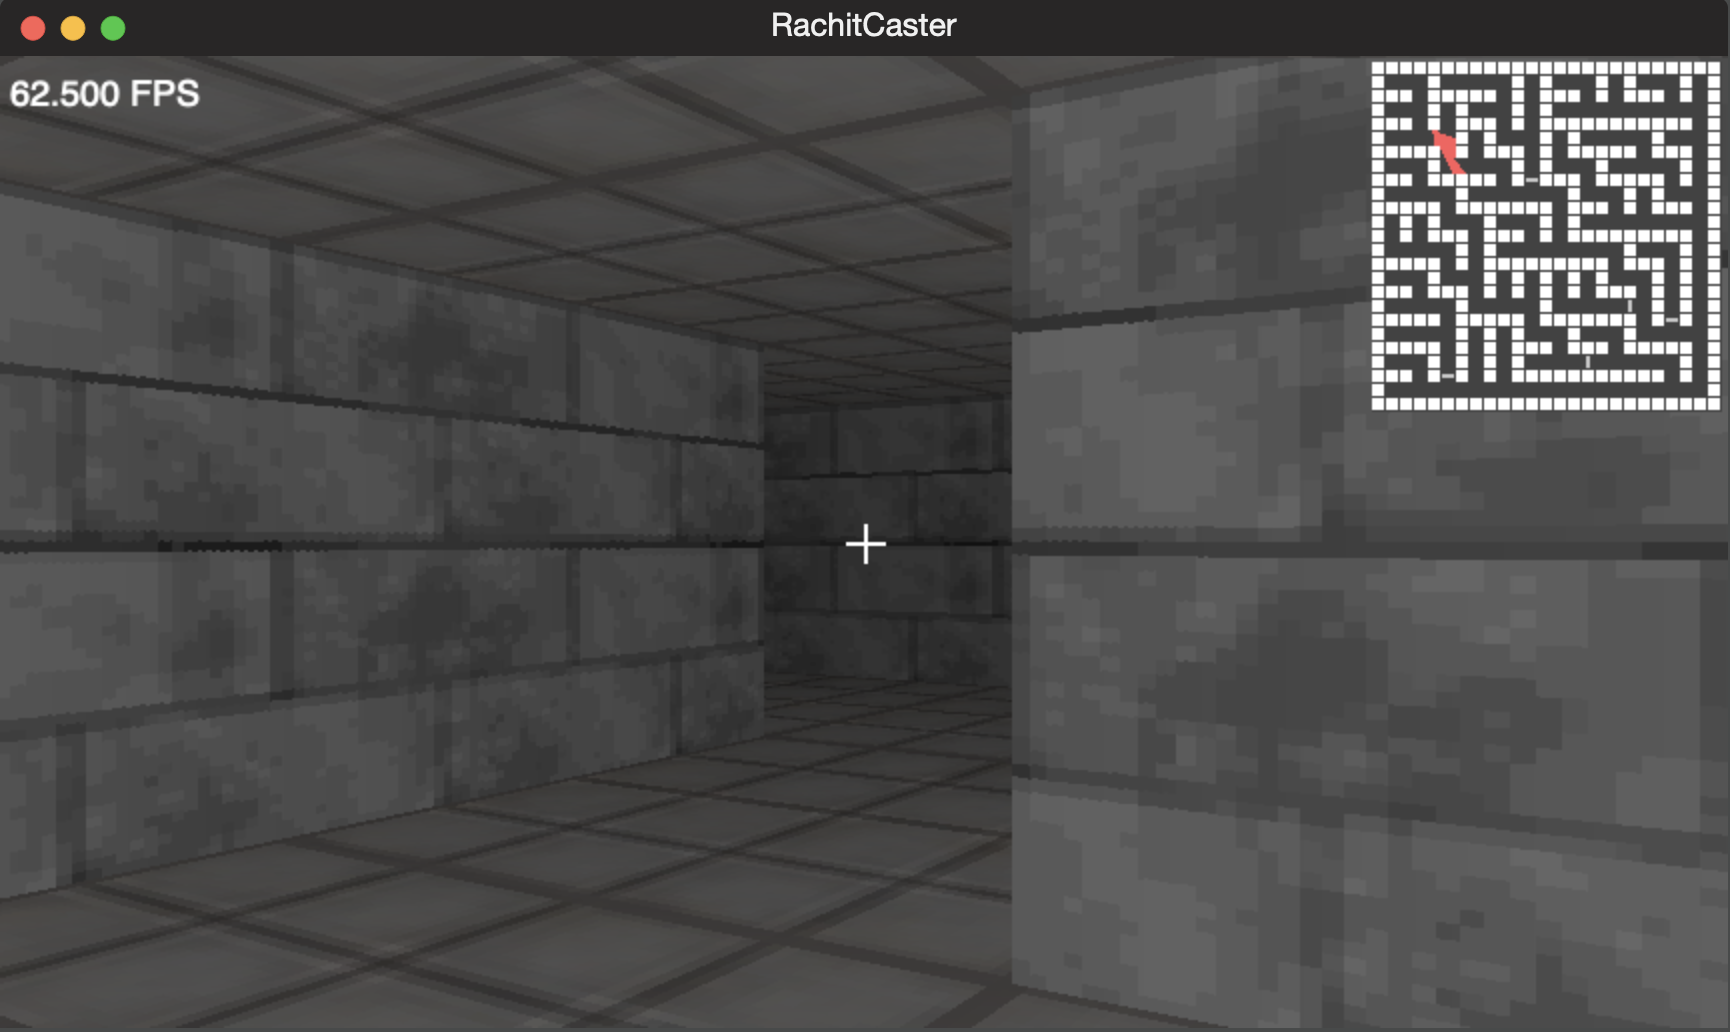
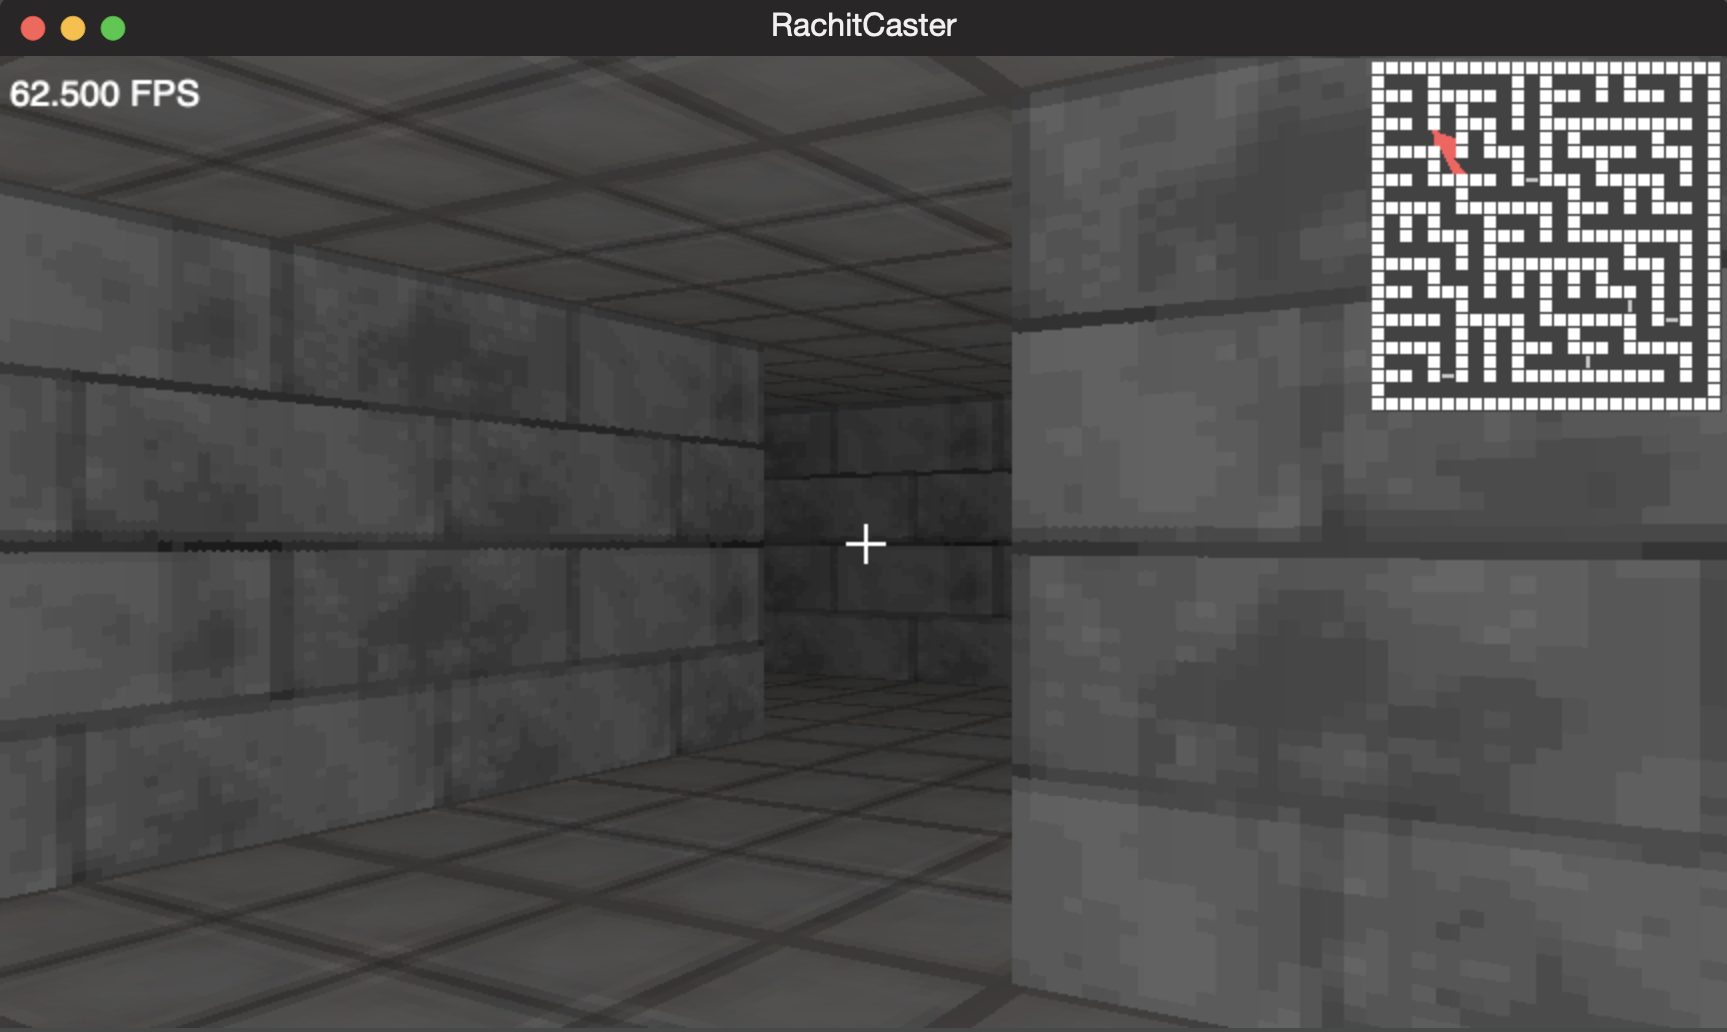
Render full frame

Changed region(s): [[0.7979, 0.062, 1.0, 0.4031], [0.4296, 0.0, 0.5524, 0.031]]

diff --git a/raycaster.js b/raycaster.js
@@ -1,14 +1,10 @@
 import { loadImage, loadImages, drawPixel, drawRectangle, drawVerticalLine, drawLine, eightWayPlot, drawCircle, drawFilledCircle, int, Vector2 } from "./lib.js";
 import { Prompt } from "./src/Prompt.js";
+import { Timer } from "./src/Timer.js";
 
 // Screen dimensions (scale to 70% of screenwidth and enforce 9 / 16 aspect ratio)
 const screenWidth = window.innerWidth * 0.6;
 const screenHeight = screenWidth * 9/16;
-
-const scaleFactor = 1;
-var xOffset = 2; // Used to control which specific columns of pixels are being rendered each frame
-const downscaledWidth = int(screenWidth / scaleFactor);
-const downscaledHeight = int(screenHeight / scaleFactor);
 
 // Dealing with canvas (setting dimensions, creating context)
 canvas.width = screenWidth;
@@ -21,9 +17,7 @@ var screen = ctx.createImageData(screenWidth, screenHeight); // Create an image 
 var instructionPrompt = new Prompt("CLICK TO LOCK MOUSE CURSOR. ARROW KEYS OR WASD TO MOVE.", screenWidth);
 
 // Variables needed for delta time calculation
-var now;
-var lastUpdate;
-var deltaTime;
+var timer = new Timer();
 
 // Structures
 function Sprite(x, y, texture) {
@@ -357,7 +351,7 @@ function movePlayer(moveSpeed) {
     }
 
     if (moved) {
-        walkTime += deltaTime;
+        walkTime += timer.getDeltaTime();
         pitch += (Math.cos(10 * walkTime) / 2 * 4.5);
     }
 }
@@ -365,8 +359,8 @@ function movePlayer(moveSpeed) {
 function rotatePlayer(event) {
     let differenceX = event.movementX / screenWidth;
     let differenceY = event.movementY / screenHeight;
-    let rotationSpeedX = (differenceX * 60) * deltaTime;
-    let rotationSpeedY = -(differenceY * 12000) * deltaTime;
+    let rotationSpeedX = (differenceX * 60) * timer.getDeltaTime();
+    let rotationSpeedY = -(differenceY * 12000) * timer.getDeltaTime();
 
     var newDirection = new Vector2();
     newDirection.x = direction.x * Math.cos(rotationSpeedX) - direction.y * Math.sin(rotationSpeedX);
@@ -384,18 +378,16 @@ function rotatePlayer(event) {
 // Main loop
 function main() {
     // Calculate delta time
-    now = Date.now();
-    deltaTime = (now - lastUpdate) / 1000;
-    lastUpdate = now;
+    timer.calculateDeltaTime();
 
     // Use delta time to calculate a smooth movement speed based on framerate
-    let moveSpeed = MOVE_SPEED * deltaTime;
-    // let rotationSpeed = ROTATION_SPEED * deltaTime;
+    let moveSpeed = MOVE_SPEED * timer.getDeltaTime();
+    // let rotationSpeed = ROTATION_SPEED * timer.getDeltaTime();
     movePlayer(moveSpeed);
     
     let clipPitch = 150;
-    if (downscaledHeight / 2 < clipPitch) 
-        clipPitch = downscaledHeight / 2;
+    if (screenHeight / 2 < clipPitch) 
+        clipPitch = screenHeight / 2;
     if (pitch < -clipPitch)
         pitch = -clipPitch;
     if (pitch > clipPitch)
@@ -435,16 +427,6 @@ function main() {
     }
     */
 
-    // drawRectangle(screen, 0, 0, screenWidth, screenHeight / 2 + pitch * 2, 0, 191, 255);
-    // drawRectangle(screen, 0, screenHeight / 2, screenWidth, screenHeight, 72, 171, 62);
-
-    /*
-    for (let y = 0; y < screenHeight / 2 + pitch * scaleFactor; y++) {
-        let dimFactor = mapValue(y, 0, downscaledHeight, 0.8, 2);
-        drawLine(screen, new Vector2(0, y), new Vector2(screenWidth, y), 45 / dimFactor, 45 / dimFactor, 45 / dimFactor);
-    }
-    */
-
     // Update doors
     for (const door of doors) {
         if (door.trigger) {
@@ -455,7 +437,7 @@ function main() {
                 door.state = 'closing';
 
             if (door.offset > 0 && door.state === 'closing')
-                door.offset -= deltaTime;
+                door.offset -= timer.getDeltaTime();
             if (door.offset <= 0) {
                 door.state = 'closed';
                 door.offset = 0;
@@ -464,9 +446,8 @@ function main() {
     }
     
     let raysOnMap = [];
-    xOffset++;
-    for (let x = (xOffset % 2); x < downscaledWidth; x += 2) {
-        let cameraX = 2 * x / downscaledWidth - 1;
+    for (let x = 0; x < screenWidth; x++) {
+        let cameraX = 2 * x / screenWidth - 1;
         let rayDirection = new Vector2(direction.x + plane.x * cameraX, direction.y + plane.y * cameraX);
         
         let mapCoords = new Vector2(int(position.x), int(position.y));
@@ -575,7 +556,7 @@ function main() {
                 }
 
                 if (door.offset < 0.95 && door.state === 'opening')
-                    door.offset += (deltaTime * 0.003);
+                    door.offset += (timer.getDeltaTime() * 0.003);
             }
         }
 
@@ -600,13 +581,13 @@ function main() {
                                     (position.y + (rayDirection.y * perpendicularWallDistance)) * blockSize + padding);        
         raysOnMap.push(rayOnMap);
         
-        let lineHeight = int(downscaledHeight / perpendicularWallDistance);
-        let drawStart = downscaledHeight / 2 - lineHeight / 2 + pitch;
+        let lineHeight = int(screenHeight / perpendicularWallDistance);
+        let drawStart = screenHeight / 2 - lineHeight / 2 + pitch;
         if (drawStart < 0)
             drawStart = 0;
-        let drawEnd = downscaledHeight / 2 + lineHeight / 2 + pitch;
-        if (drawEnd >= downscaledHeight)
-            drawEnd = downscaledHeight - 1;
+        let drawEnd = screenHeight / 2 + lineHeight / 2 + pitch;
+        if (drawEnd >= screenHeight)
+            drawEnd = screenHeight - 1;
 
         let wallX;
         if (side === 0)
@@ -626,7 +607,7 @@ function main() {
             textureCoords.x = textureWidth - textureCoords.x - 1;
 
         var step = 1.0 * textureHeight / lineHeight;
-        let texturePosition = (drawStart - pitch - downscaledHeight / 2 + lineHeight / 2) * step;
+        let texturePosition = (drawStart - pitch - screenHeight / 2 + lineHeight / 2) * step;
         for (let y = int(drawStart)+1; y < int(drawEnd)+1; y++) {
             textureCoords.y = int(texturePosition) & (textureHeight - 1);
             texturePosition += step;
@@ -670,7 +651,7 @@ function main() {
             let blue = selectedTexture.data[pixelindex+2] / dimFactor;
             blue = blue * (1 - fogPercentage) + fogPercentage * 0.1;
 
-            drawRectangle(screen, x * scaleFactor, y * scaleFactor, scaleFactor, scaleFactor, red, green, blue);
+            drawPixel(screen, x, y, red, green, blue);
         }
 
         // Draw Wall and Ceiling (Vertically)
@@ -695,10 +676,10 @@ function main() {
         let currentDistance = 0.0;
 
         if (drawEnd < 0) 
-            drawEnd = downscaledHeight;
+            drawEnd = screenHeight;
 
         for (let y = 0; y < int(drawStart)+1; y++) {
-            currentDistance = downscaledHeight / (downscaledHeight - 2.0 * (y - pitch));
+            currentDistance = screenHeight / (screenHeight - 2.0 * (y - pitch));
 
             let weight = currentDistance / perpendicularWallDistance;
             
@@ -719,11 +700,11 @@ function main() {
             let blue = ceilingTexture.data[pixelindex+2] / dimFactor;
             blue = blue * (1 - fogPercentage) + fogPercentage * 0.1;
 
-            drawRectangle(screen, x * scaleFactor, y * scaleFactor, scaleFactor, scaleFactor, red, green, blue);
+            drawPixel(screen, x, y, red, green, blue);
         }
 
-        for (let y = int(drawEnd)+1; y < downscaledHeight; y++) {
-            currentDistance = downscaledHeight / (2.0 * (y - pitch) - downscaledHeight);
+        for (let y = int(drawEnd)+1; y < screenHeight; y++) {
+            currentDistance = screenHeight / (2.0 * (y - pitch) - screenHeight);
     
             let weight = currentDistance / perpendicularWallDistance;
             
@@ -744,7 +725,7 @@ function main() {
             let blue = groundTexture.data[pixelindex+2] / dimFactor;
             blue = blue * (1 - fogPercentage) + fogPercentage * 0.1;
 
-            drawRectangle(screen, x * scaleFactor, y * scaleFactor, scaleFactor, scaleFactor, red, green, blue);
+            drawPixel(screen, x, y, red, green, blue);
         }
     }
 
@@ -790,12 +771,12 @@ function main() {
     
     ctx.putImageData(screen, 0, 0);
 
-    instructionPrompt.update(deltaTime);
+    instructionPrompt.update(timer.getDeltaTime());
     instructionPrompt.render(ctx);
 
     ctx.font = "18px Helvetica";
     ctx.fillStyle = "white";
-    ctx.fillText(`${(1 / deltaTime).toFixed(3)} FPS`, 5, 25);
+    ctx.fillText(`${(1 / timer.getDeltaTime()).toFixed(3)} FPS`, 5, 25);
 
     requestAnimationFrame(main);
 }

diff --git a/src/Timer.js b/src/Timer.js
@@ -1,0 +1,29 @@
+/**
+ * @class Timer representing a class used to provide timing functionality.
+ */
+export class Timer {
+    /**
+     * Creates an instance of Timer.
+     */
+    constructor() {
+        this.now;
+        this.deltaTime;
+        this.lastUpdate;
+    }
+
+    /**
+     * Calculates the delta time (elapsed time since the game last updated).
+     */
+    calculateDeltaTime() {
+        this.now = Date.now();
+        this.deltaTime = (this.now - this.lastUpdate) / 1000;
+        this.lastUpdate = this.now;
+    }
+
+    /**
+     * Allows access to the deltaTime variable, representing the delta time.
+     */
+    getDeltaTime() {
+        return this.deltaTime;
+    }
+}

diff --git a/src/Utils.js b/src/Utils.js
@@ -1,4 +1,10 @@
 // Image utils
+
+/**
+ * Loads an image.
+ *
+ * @param {string} imageUrl The path to the image.
+ */
 export async function loadImage(imageUrl) {
     let img;
     const imageLoadPromise = new Promise(resolve => {
@@ -11,6 +17,11 @@ export async function loadImage(imageUrl) {
     return img;
 }
 
+/**
+ * Loads multiple images.
+ *
+ * @param {string} imageUrl The path to the image.
+ */
 export async function loadImages(imageUrlArray) {
     const promiseArray = [];
     const imageArray = [];
